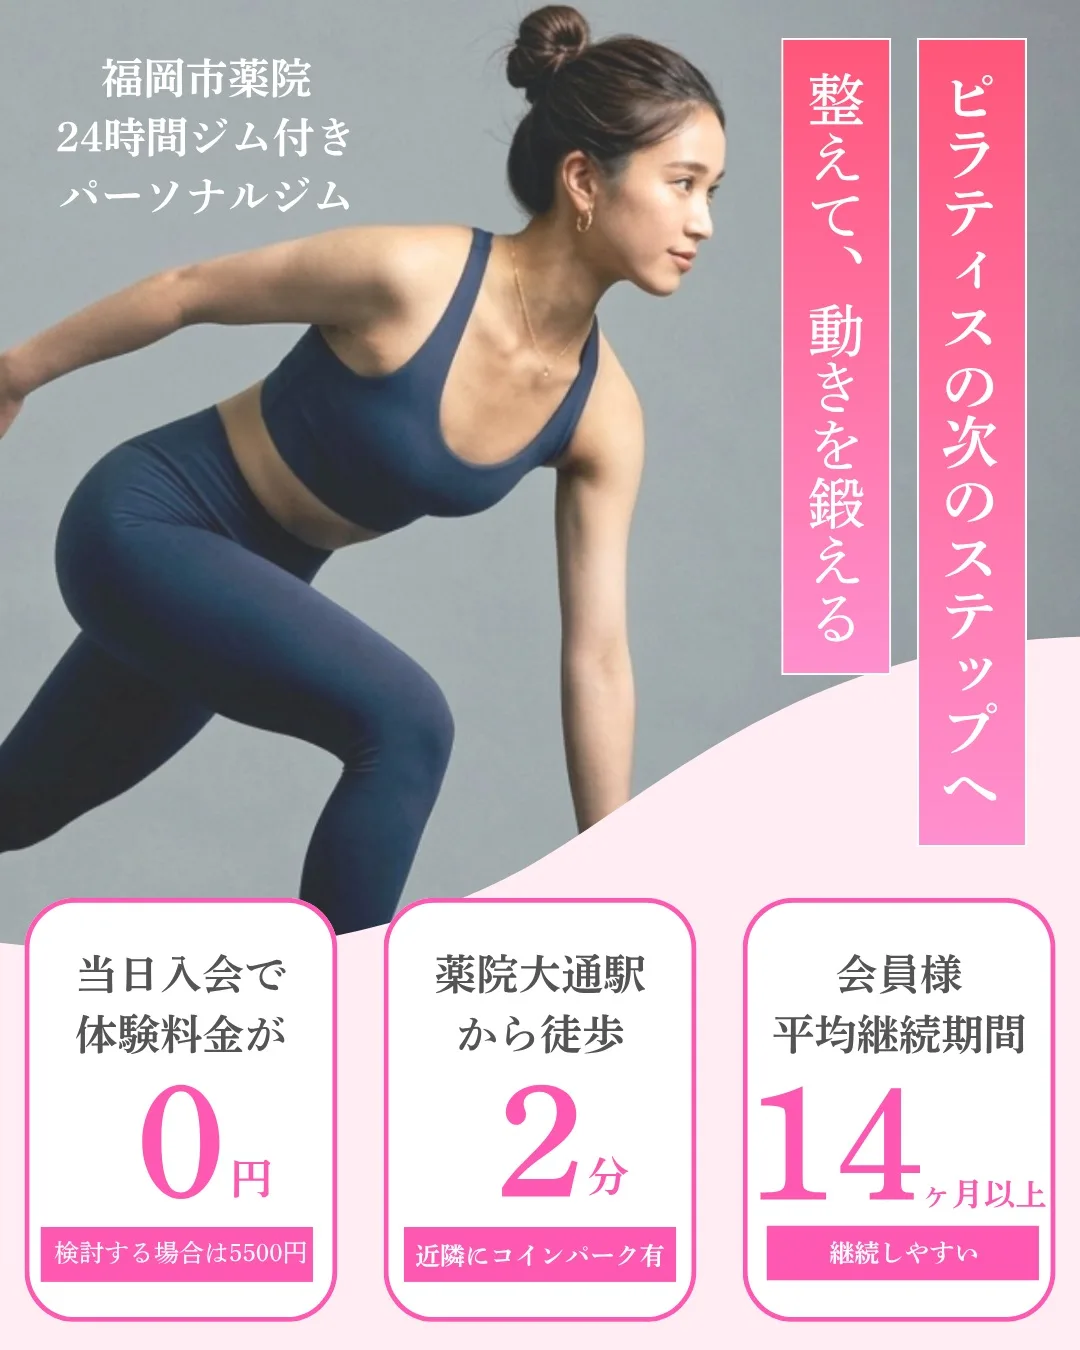
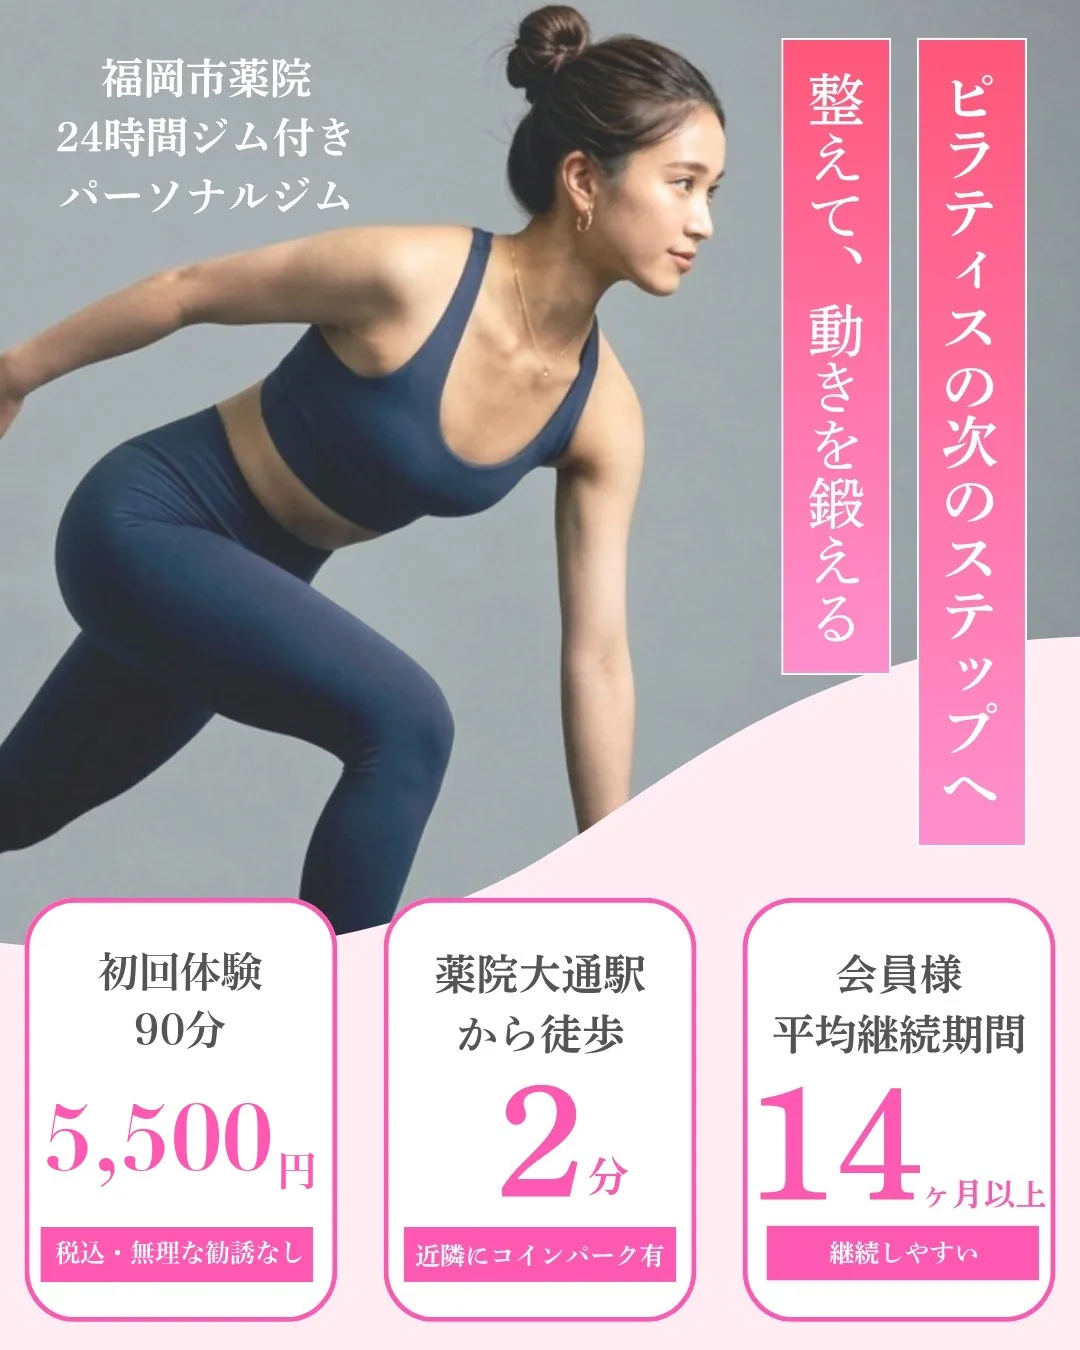
当日入会で体験0円の訴求を削除（index本文・ピラティスFV画像のバッジを初回体験90分5,500円に差し替え）

Changed region(s): [[0.0306, 0.6844, 0.3056, 0.9333]]

diff --git a/index.html b/index.html
@@ -5,16 +5,16 @@
 <meta name="viewport" content="width=device-width, initial-scale=1.0">
 <link rel="preload" as="image" href="images/diet-hero-yakuin.webp" type="image/webp">
 <title>5toolgym 薬院店 | 何をやっても痩せなかった方へ｜福岡・薬院のパーソナルジム</title>
-<meta name="description" content="何をやっても変わらなかった身体が、変わり始める。痩せない理由は運動量じゃない、身体の使い方です。30〜40代女性に特化したパーソナルジム。薬院大通駅徒歩2分。当日入会で体験料0円。">
+<meta name="description" content="何をやっても変わらなかった身体が、変わり始める。痩せない理由は運動量じゃない、身体の使い方です。30〜40代女性に特化したパーソナルジム。薬院大通駅徒歩2分。初回体験90分5,500円。">
 <meta property="og:type" content="website">
 <meta property="og:title" content="5toolgym 薬院店 | 30〜40代女性のパーソナルジム 福岡・薬院大通">
-<meta property="og:description" content="何をやっても変わらなかった身体が、変わり始める。痩せない理由は運動量じゃない、身体の使い方です。当日入会で体験料0円。">
+<meta property="og:description" content="何をやっても変わらなかった身体が、変わり始める。痩せない理由は運動量じゃない、身体の使い方です。初回体験90分5,500円。">
 <meta property="og:image" content="https://lp-yakuin01.5toolgym.workers.dev/images/img2.webp">
 <meta property="og:url" content="https://lp-yakuin01.5toolgym.workers.dev/">
 <meta property="og:site_name" content="5toolgym 薬院店">
 <meta name="twitter:card" content="summary_large_image">
 <meta name="twitter:title" content="5toolgym 薬院店 | 30〜40代女性のパーソナルジム 福岡・薬院大通">
-<meta name="twitter:description" content="何をやっても変わらなかった身体が、変わり始める。痩せない理由は運動量じゃない、身体の使い方です。当日入会で体験料0円。">
+<meta name="twitter:description" content="何をやっても変わらなかった身体が、変わり始める。痩せない理由は運動量じゃない、身体の使い方です。初回体験90分5,500円。">
 <meta name="twitter:image" content="https://lp-yakuin01.5toolgym.workers.dev/images/img2.webp">
 <link rel="canonical" href="https://lp-yakuin01.5toolgym.workers.dev/">
 <link rel="icon" href="favicon.svg" type="image/svg+xml">
@@ -296,13 +296,13 @@ footer{background:var(--dark);padding:32px var(--sp) 20px;text-align:center}
 <!-- ══ STICKY BAR ══ -->
 <div id="sbar">
   <p class="sbar-note">今月の体験枠 残り5名</p>
-  <a href="https://instagram.kanzashi.com/l/1uyf95d0BYo/kirei" class="sbar-btn">体験を予約する（当日入会で0円）</a>
-  <p class="sbar-sub">当日入会で0円 / 相談だけでもOK</p>
+  <a href="https://instagram.kanzashi.com/l/1uyf95d0BYo/kirei" class="sbar-btn">体験を予約する（90分 5,500円）</a>
+  <p class="sbar-sub">初回90分 5,500円 / 相談だけでもOK</p>
 </div>
 
 <!-- ══ TOPBAR ══ -->
 <div class="topbar">
-  今月の体験枠 残り5名｜<a href="https://instagram.kanzashi.com/l/1uyf95d0BYo/kirei">体験を予約する（当日入会で0円）</a>
+  今月の体験枠 残り5名｜<a href="https://instagram.kanzashi.com/l/1uyf95d0BYo/kirei">体験を予約する（90分 5,500円）</a>
 </div>
 
 <!-- ══ NAV ══ -->
@@ -349,8 +349,8 @@ footer{background:var(--dark);padding:32px var(--sp) 20px;text-align:center}
     <div class="hero-trust-item"><strong>14<span style="font-size:12px">ヶ月</span></strong><span>平均継続期間</span></div>
   </div>
   <div id="heroCta">
-    <a href="https://instagram.kanzashi.com/l/1uyf95d0BYo/kirei" class="btn-main">体験を予約する（当日入会で0円）</a>
-    <p class="btn-note">当日入会で0円（初回90分 5,500円）</p>
+    <a href="https://instagram.kanzashi.com/l/1uyf95d0BYo/kirei" class="btn-main">体験を予約する（90分 5,500円）</a>
+    <p class="btn-note">初回90分 5,500円（税込）</p>
   </div>
   <div style="text-align: center; padding: 12px 0 0;">
     <i class="scroll-arrow" aria-hidden="true">&#8595;</i>
@@ -487,7 +487,7 @@ footer{background:var(--dark);padding:32px var(--sp) 20px;text-align:center}
 <div class="cta-block">
   <div class="cta-block-inner">
     <p class="urgency-label">今月の体験枠 残り5名</p>
-    <a href="https://instagram.kanzashi.com/l/1uyf95d0BYo/kirei" class="btn-main">体験を予約する（当日入会で0円）</a>
+    <a href="https://instagram.kanzashi.com/l/1uyf95d0BYo/kirei" class="btn-main">体験を予約する（90分 5,500円）</a>
     <p style="font-size:11px;color:#999;text-align:center;margin:6px 0 0;letter-spacing:0.02em;">無理な勧誘なし &nbsp;／&nbsp; 当日キャンセルOK &nbsp;／&nbsp; 相談だけでもOK</p>
   </div>
 </div>
@@ -676,7 +676,7 @@ footer{background:var(--dark);padding:32px var(--sp) 20px;text-align:center}
 <div class="cta-block">
   <div class="cta-block-inner">
     <p class="urgency-label">今月の体験枠 残り5名</p>
-    <a href="https://instagram.kanzashi.com/l/1uyf95d0BYo/kirei" class="btn-main">体験を予約する（当日入会で0円）</a>
+    <a href="https://instagram.kanzashi.com/l/1uyf95d0BYo/kirei" class="btn-main">体験を予約する（90分 5,500円）</a>
     <p style="font-size:11px;color:#999;text-align:center;margin:6px 0 0;letter-spacing:0.02em;">無理な勧誘なし &nbsp;／&nbsp; 当日キャンセルOK &nbsp;／&nbsp; 相談だけでもOK</p>
   </div>
 </div>
@@ -727,19 +727,14 @@ footer{background:var(--dark);padding:32px var(--sp) 20px;text-align:center}
         <span style="font-size:0.85rem;color:rgba(255,255,255,.5);">（税込）</span>
       </div>
     </div>
-    <div class="offer-free">
-      さらに、<strong>体験当日にご入会の方は</strong><br>
-      体験トレーニング料金（5,500円）が<br><strong>全額0円</strong>になります。<br>
-      つまり、入会を決めた方は<strong>体験が0円。</strong>
-    </div>
     <div class="offer-checks">
       <div class="offer-check">90分マンツーマン指導</div>
       <div class="offer-check">骨格チェック・姿勢分析</div>
       <div class="offer-check">あなた専用プログラムの設計</div>
       <div class="offer-check">相談だけでもOK</div>
     </div>
-    <a href="https://instagram.kanzashi.com/l/1uyf95d0BYo/kirei" class="btn-main">体験を予約する（当日入会で0円）</a>
-    <p class="btn-note" style="color:rgba(255,255,255,.4);margin-top:10px">当日入会で0円 / 今月残りわずか</p>
+    <a href="https://instagram.kanzashi.com/l/1uyf95d0BYo/kirei" class="btn-main">体験を予約する（90分 5,500円）</a>
+    <p class="btn-note" style="color:rgba(255,255,255,.4);margin-top:10px">今月の体験枠 残り5名</p>
   </div>
 </section>
 
@@ -787,7 +782,7 @@ footer{background:var(--dark);padding:32px var(--sp) 20px;text-align:center}
         <div class="flow-body">
           <span class="flow-time">5分</span>
           <p class="flow-ttl">今後のご提案</p>
-          <p class="flow-desc">体験を踏まえて、最適なコースや通い方をご提案します。当日ご入会の場合、体験料は全額無料になります。</p>
+          <p class="flow-desc">体験を踏まえて、最適なコースや通い方をご提案します。合わないと感じたら、そのままお帰りいただいて大丈夫です。こちらから引き止めることはしません。</p>
         </div>
       </div>
     </div>
@@ -857,7 +852,7 @@ footer{background:var(--dark);padding:32px var(--sp) 20px;text-align:center}
     <h2 class="final-cta-ttl">迷っている時間が、<br><em>一番もったいない。</em></h2>
     <p class="final-cta-sub">変わりたいと思ったその日が、始め時です。<br>まず90分、体験してみてください。</p>
     <a href="https://instagram.kanzashi.com/l/1uyf95d0BYo/kirei" class="btn-main">今すぐ予約する →</a>
-    <p class="btn-note" style="margin-top:10px">当日入会で0円 / 今月残りわずか / 相談だけでもOK</p>
+    <p class="btn-note" style="margin-top:10px">今月の体験枠 残り5名 / 相談だけでもOK</p>
   </div>
 </section>
 
@@ -882,7 +877,7 @@ footer{background:var(--dark);padding:32px var(--sp) 20px;text-align:center}
       <dt class="access-dt">電話</dt>
       <dd class="access-dd"><a href="tel:0926000296">092-600-0296</a></dd>
     </dl>
-    <a href="https://instagram.kanzashi.com/l/1uyf95d0BYo/kirei" class="btn-main">体験を予約する（当日入会で0円）</a>
+    <a href="https://instagram.kanzashi.com/l/1uyf95d0BYo/kirei" class="btn-main">体験を予約する（90分 5,500円）</a>
   </div>
 </section>
 

diff --git a/pilates-yakuin.html b/pilates-yakuin.html
@@ -405,7 +405,7 @@ footer{background:#2D2D2D;padding:36px var(--sp) 20px;text-align:center}
 <!-- ══ HERO ══ -->
 <section class="hero" id="top">
   <div class="hero-photo">
-    <picture><source srcset="images/pilates-hero-yakuin.webp" type="image/webp"><img fetchpriority="high" decoding="async" src="images/pilates-hero-yakuin.jpg" alt="福岡市薬院24時間ジム付きパーソナルジム ピラティスの次のステップへ 整えて、動きを鍛える"></picture>
+    <picture><source srcset="images/pilates-hero-yakuin.webp" type="image/webp"><img fetchpriority="high" decoding="async" src="images/pilates-hero-yakuin.jpg" alt="福岡市薬院24時間ジム付きパーソナルジム ピラティスの次のステップへ 整えて、動きを鍛える 初回体験90分5,500円"></picture>
   </div>
   <h1 style="position:absolute;width:1px;height:1px;overflow:hidden;clip:rect(0 0 0 0)">ピラティスで姿勢は変わった。でも体型は変わらなかった。ピラティスの次に必要な運動が、ここにあります。</h1>
   <div id="heroCta">
